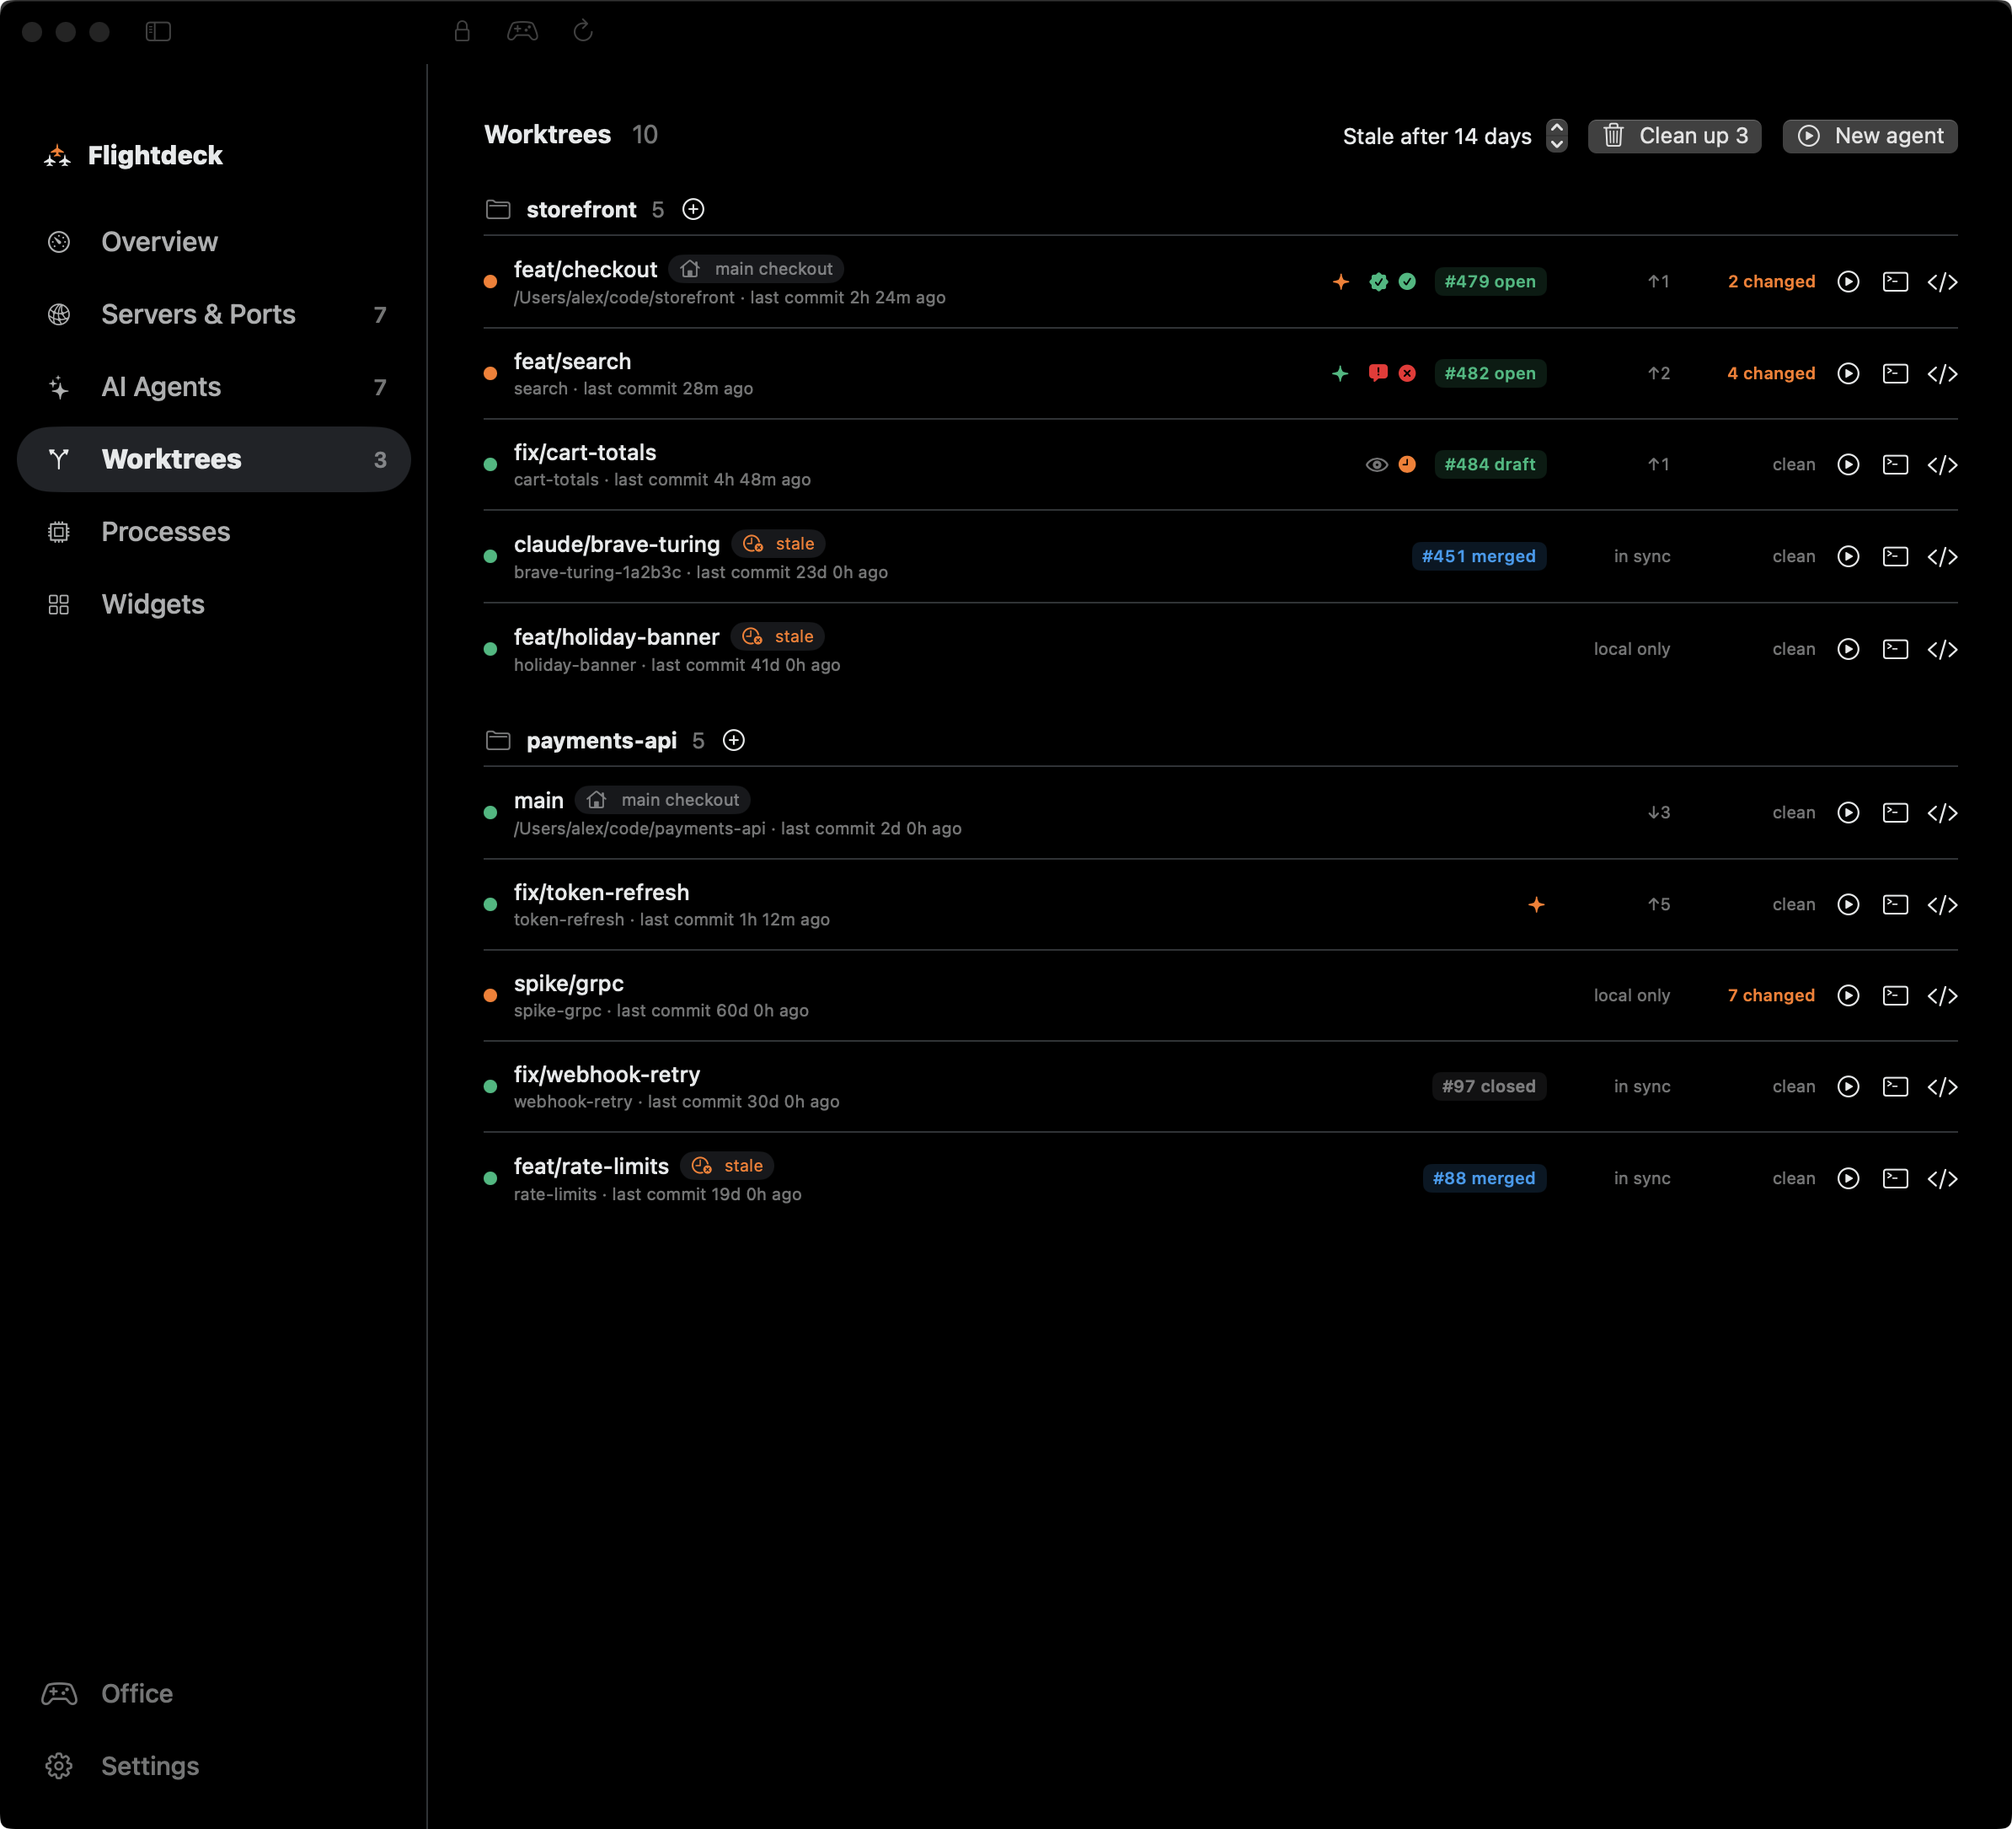
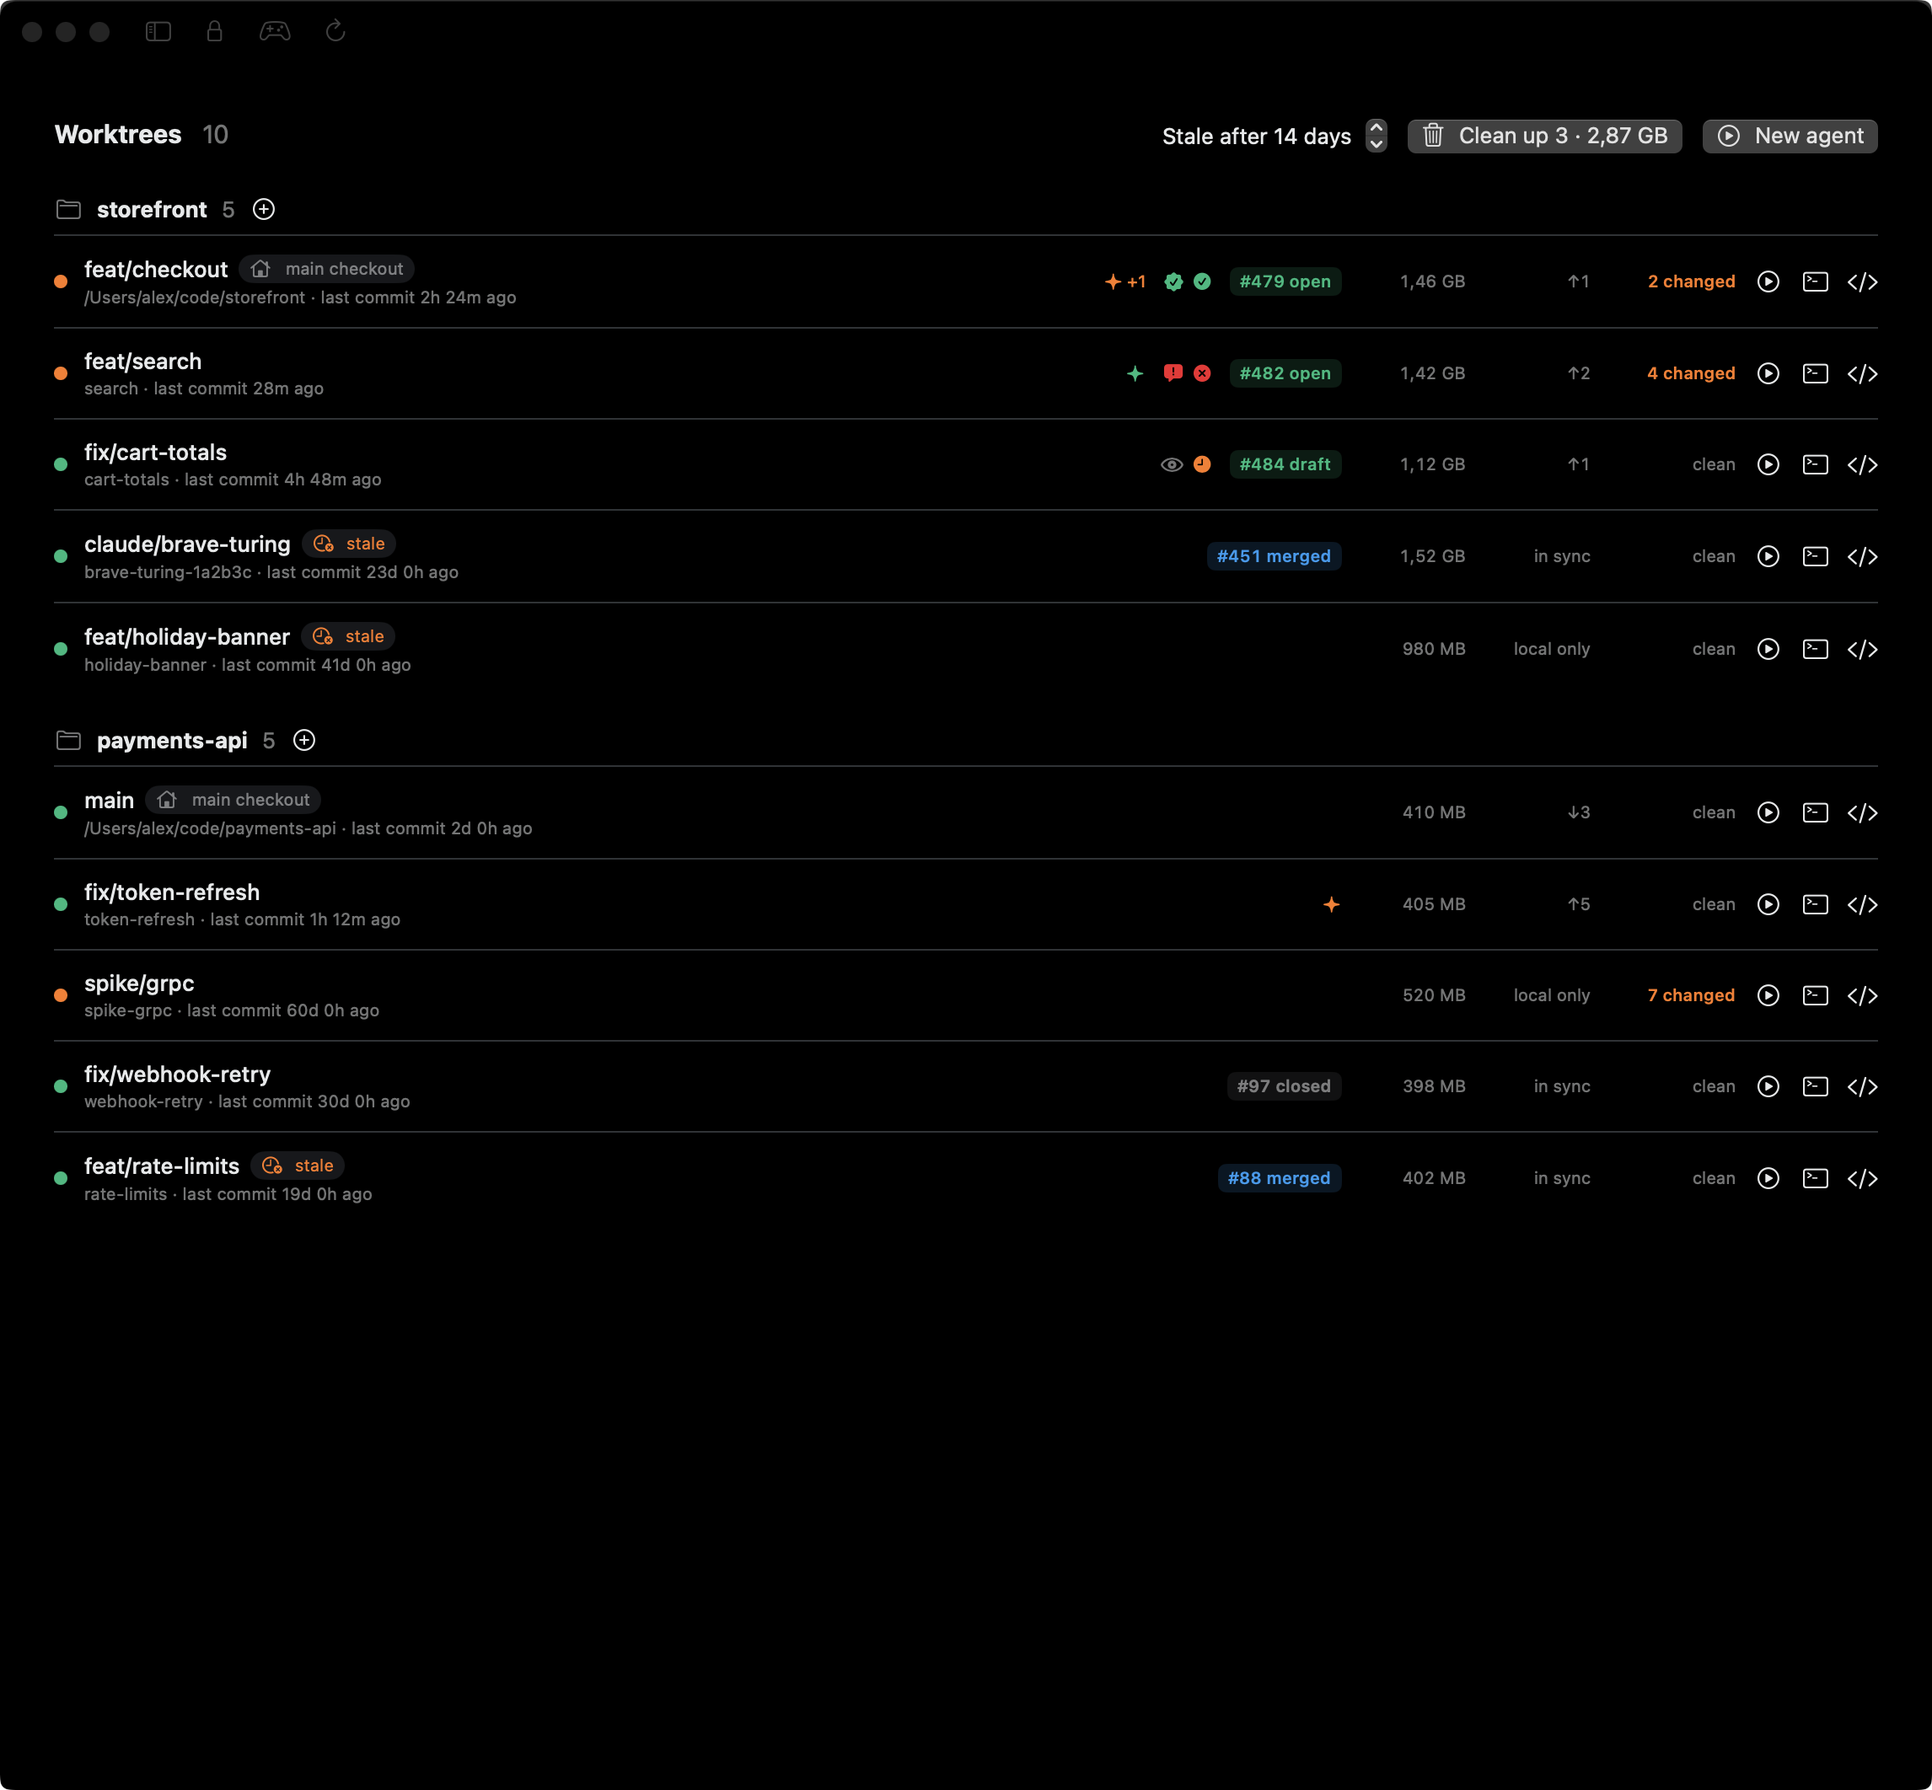
Describe context meters, shared checkouts and cache sizes on the site and README

diff --git a/site/app/page.tsx b/site/app/page.tsx
@@ -58,8 +58,8 @@ const FEATURE_ROWS = [
   {
     label: "AI agents",
     title: "Every agent, one glance.",
-    body: "Which folders Claude Code, Codex, Gemini CLI, Cursor Agent, opencode and Aider are working in, and whether each is working, waiting for approval, waiting for you or looks stuck. Go to terminal or stop any of them from its row. Token spend per project and model is there too if you turn it on. Cards show which step of its task list each agent is on and the files and lines it changed, with a diff one click away, and New agent starts Claude Code or Codex in a fresh worktree. Limits come with a forecast of when they run out, and Today sums up agent time and time spent waiting on you.",
-    image: { src: "/screenshots/agents.png", alt: "AI agents page with usage limits", width: 1194, height: 1085 },
+    body: "Which folders Claude Code, Codex, Gemini CLI, Cursor Agent, opencode and Aider are working in, and whether each is working, waiting for approval, waiting for you or looks stuck. Go to terminal or stop any of them from its row. Token spend per project and model is there too if you turn it on. Cards show which step of its task list each agent is on and the files and lines it changed, with a diff one click away. A context meter warns before a session compacts, and agents sharing one checkout get flagged with the files they both touched. New agent starts Claude Code or Codex in a fresh worktree. Limits come with a forecast of when they run out, and Today sums up agent time and time spent waiting on you.",
+    image: { src: "/screenshots/agents.png", alt: "AI agents page with usage limits", width: 1146, height: 1062 },
   },
   {
     label: "Office",
@@ -76,8 +76,8 @@ const FEATURE_ROWS = [
   {
     label: "Worktrees",
     title: "Clear out old worktrees.",
-    body: "Every git worktree with its changes, ahead/behind, PR and the agent working in it. Clean ones with no agent, no open PR and no recent commits are marked stale, and one click cleans them up. Open pull requests show CI and review status, and you get an alert when CI fails on a branch an agent is working in.",
-    image: { src: "/screenshots/worktrees.png", alt: "Worktrees page with stale worktrees and Clean up", width: 1194, height: 1085 },
+    body: "Every git worktree with its changes, ahead/behind, PR and the agent working in it. Clean ones with no agent, no open PR and no recent commits are marked stale, and one click cleans them up, showing how much disk their node_modules and build folders free. Open pull requests show CI and review status, and you get an alert when CI fails on a branch an agent is working in.",
+    image: { src: "/screenshots/worktrees.png", alt: "Worktrees page with stale worktrees and Clean up", width: 1146, height: 1062 },
   },
   {
     label: "Dev servers",

diff --git a/README.md b/README.md
@@ -59,10 +59,10 @@ Screenshots use demo data: start the app with `FLIGHTDECK_DEMO=1` to see the sam
 
 - **System**: CPU, memory, network and disk, with live sparklines. Collapse the section when you don't need it.
 - **Dev servers**: every listening port mapped to its git project, branch and worktree, with the framework detected (e.g. "Next.js · shop · worktree checkout · :3000"). Open in browser, editor or terminal, or stop the process. Stopped servers stay listed for 10 minutes with Run again, port conflicts are flagged, and Restart reruns a server in a terminal tab and keeps its log.
-- **AI agents**: which folders Claude Code, Codex and other agents are working in, and whether each is working, waiting for approval or waiting for you. Agents that look stuck (e.g. the same tool call over and over) get a badge with the reason and count as needing you. Cards can show CPU and memory for the agent and everything it started. Each card shows what the agent changed since it started, with a Diff button, and agents that need you show their last message or question. When Claude keeps a task list, cards show which step it is on ("Step 3 of 5") with a bar per step. The overview also lists your dev servers between the agents and projects.
+- **AI agents**: which folders Claude Code, Codex and other agents are working in, and whether each is working, waiting for approval or waiting for you. Agents that look stuck (e.g. the same tool call over and over) get a badge with the reason and count as needing you. Cards can show CPU and memory for the agent and everything it started. Each card shows what the agent changed since it started, with a Diff button, and agents that need you show their last message or question. When Claude keeps a task list, cards show which step it is on ("Step 3 of 5") with a bar per step. On the Agents page each Claude session has a context meter that turns orange as it nears auto-compaction, and agents sharing one checkout get a warning naming the files they both changed, with a shortcut to start the next one in a worktree. The overview also lists your dev servers between the agents and projects.
 - **Agent controls**: Go to terminal focuses the agent's own Ghostty, iTerm2, Terminal or tmux tab; Stop interrupts it. Press ⌃⌥N anywhere to jump to the next agent that needs you (change the shortcut in Settings › General). New agent starts Claude Code or Codex in a new or existing worktree, in your terminal or a tmux window.
 - **Keep awake**: optional, off by default. Keeps the Mac from sleeping while agents work; toggle it on the overview or the AI Agents page.
-- **Worktrees**: every git worktree with its changes, ahead/behind, PR and the agent in it. Clean worktrees with no agent, no open PR and no commits for 14 days (adjustable) are marked stale, and Clean up removes them. Open pull requests show CI and review status, with an alert when CI fails on a branch an agent works in.
+- **Worktrees**: every git worktree with its changes, ahead/behind, PR and the agent in it. Clean worktrees with no agent, no open PR and no commits for 14 days (adjustable) are marked stale, and Clean up removes them. Each row shows the size of its build caches (`node_modules`, `.build`, `.venv`, `target` and the like), and Clean up says how much it frees. Open pull requests show CI and review status, with an alert when CI fails on a branch an agent works in.
 - **Alerts**: a notification when an agent needs you. Set quiet hours, or pause alerts from the bell in the menu bar panel; alerts held back arrive as one summary afterwards. Alerts can also stay quiet while a macOS Focus is on.
 - **Usage limits**: Codex 5h and weekly limits from local logs; Claude token counts from local logs, and optionally Claude limit percentages. A forecast says when a limit runs out at the current pace.
 - **Today**: agent time, time spent waiting on you and turns per project, compared with yesterday.
